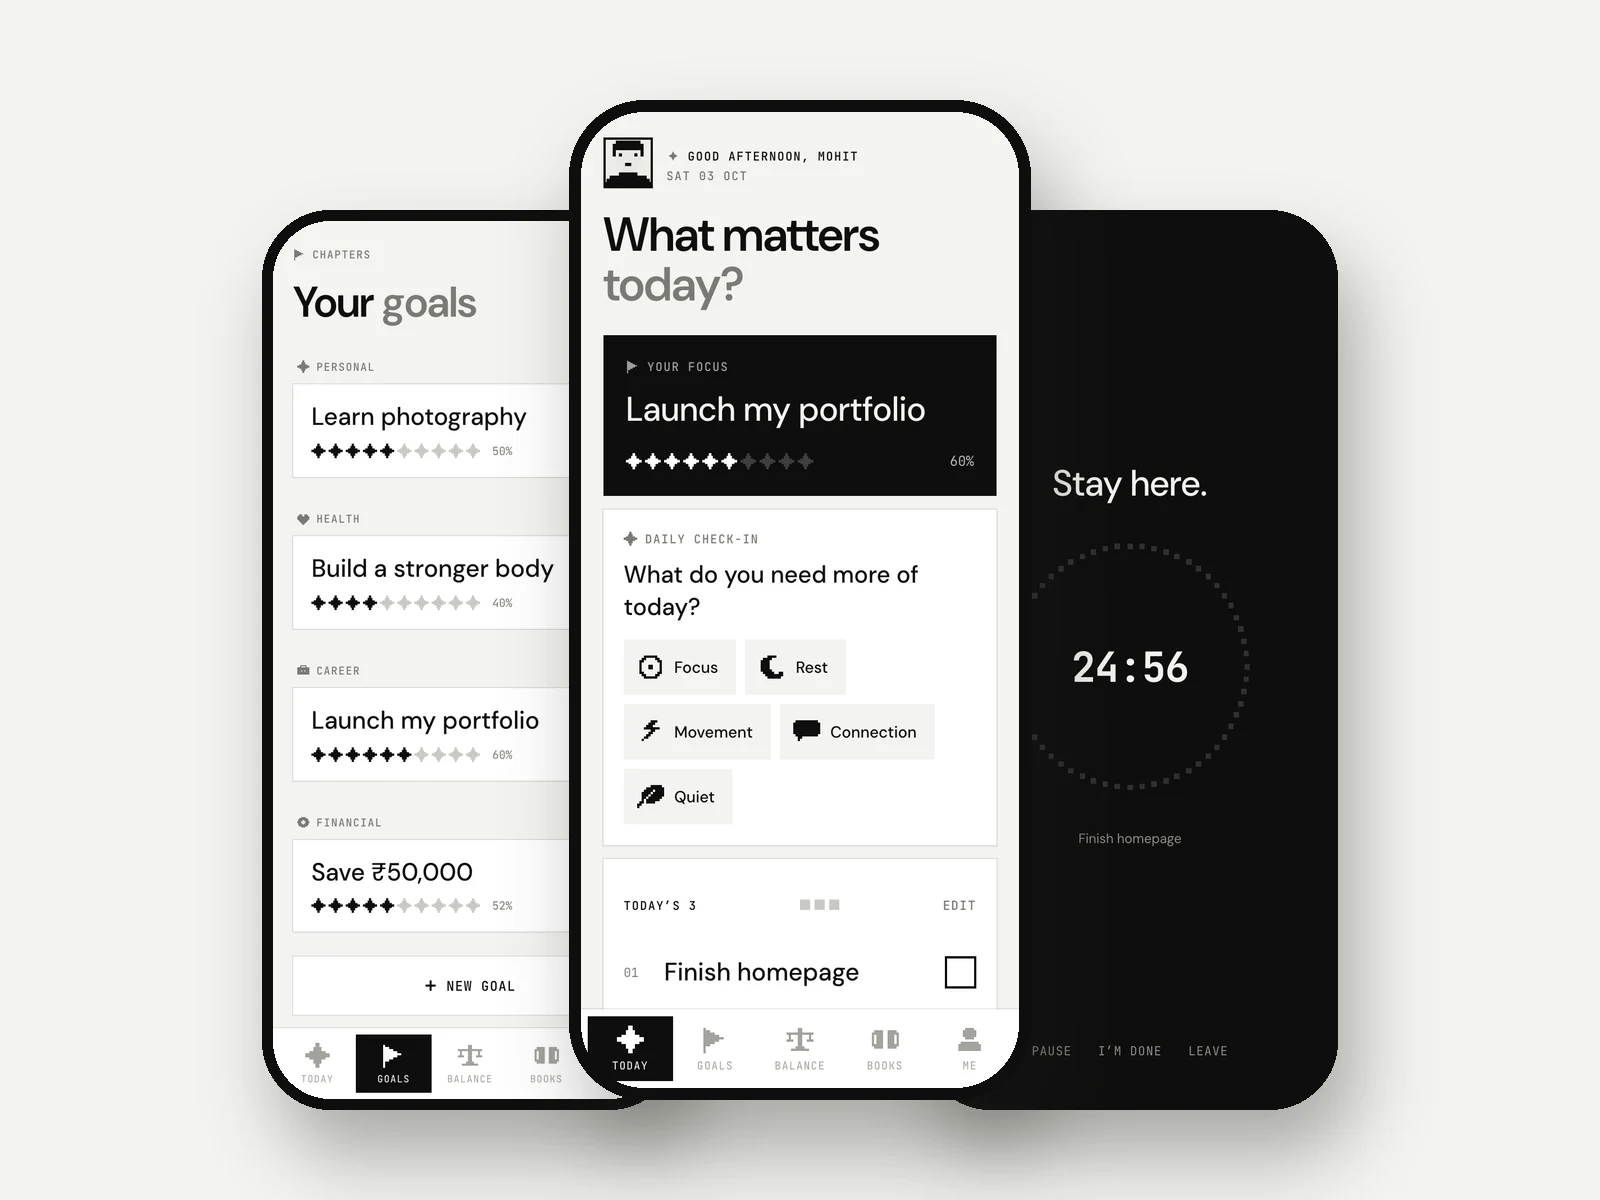
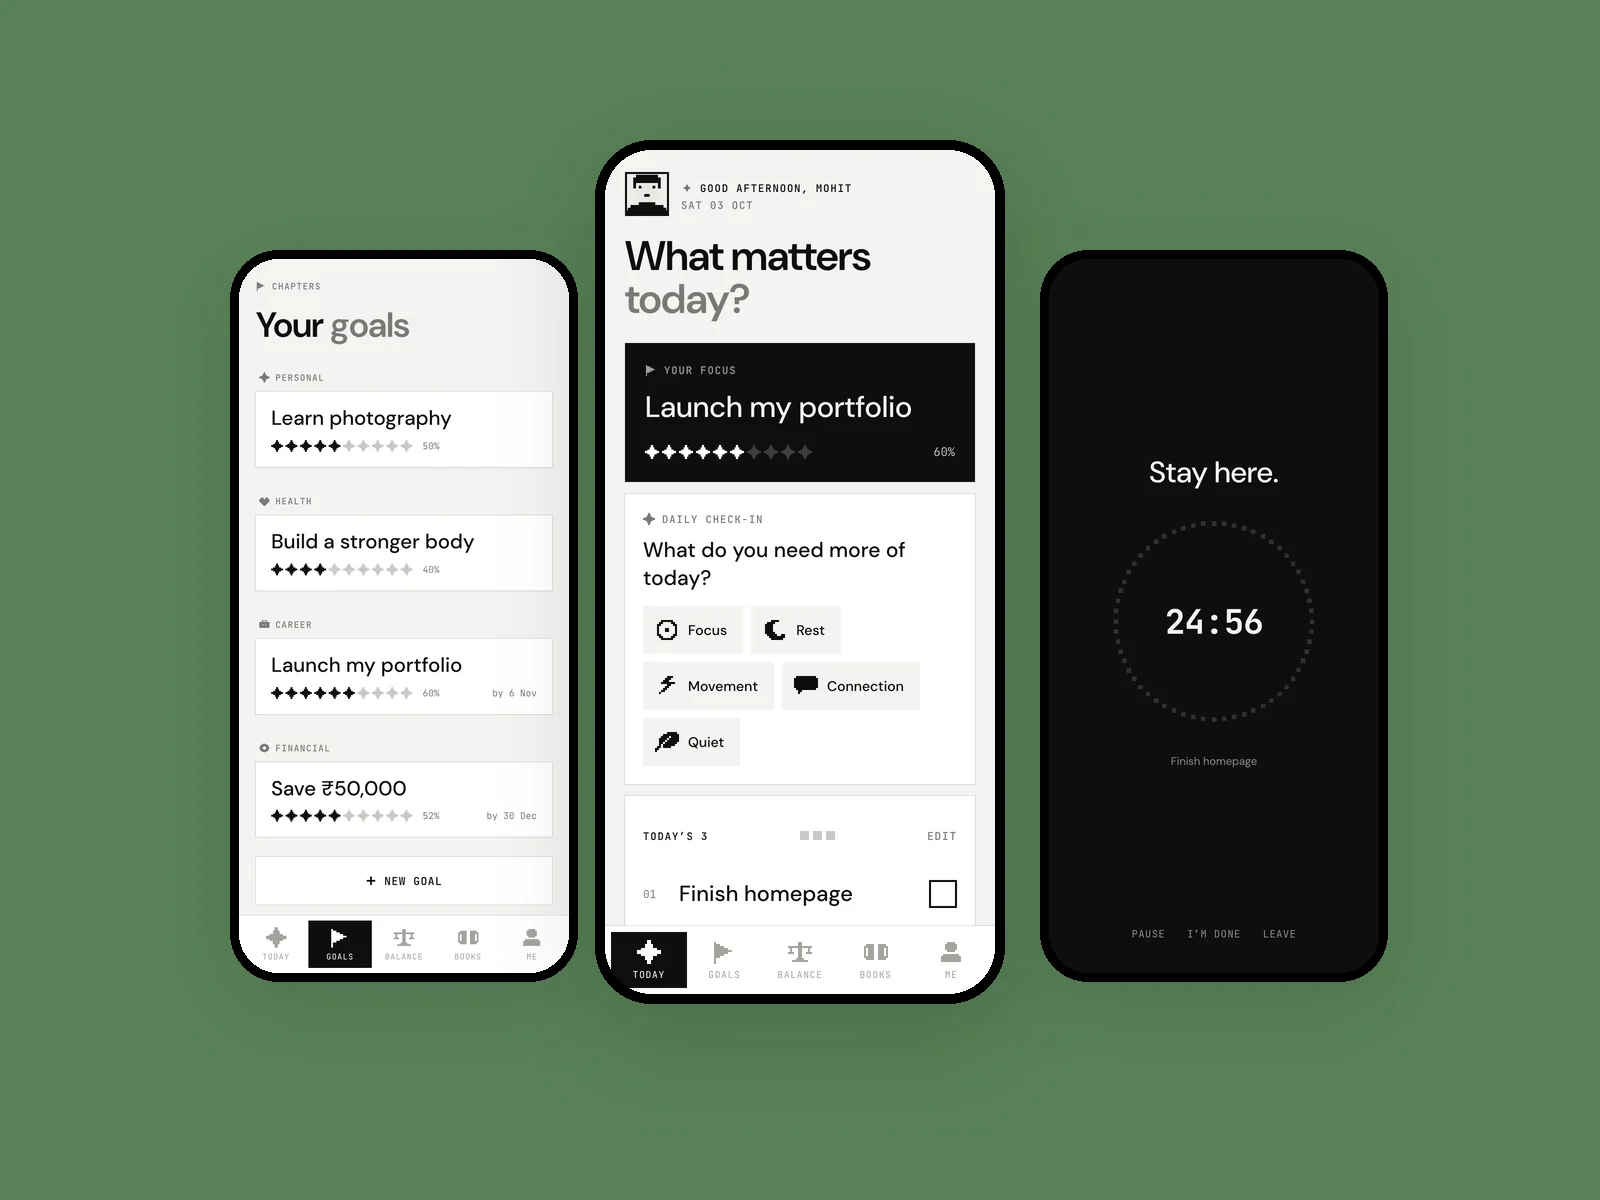
Brands we've built: MAKVO and Whistle, brand-colour hovers; new Falance and RAWSET covers

diff --git a/src/components/home/TrustedBy.tsx b/src/components/home/TrustedBy.tsx
@@ -10,7 +10,7 @@ const hrefFor = (slug: string) => {
 import { Reveal } from '../ui/Reveal';
 import { SquareBullet } from '../ui/SquareBullet';
 
-/** Every logo is drawn in one flat colour (its shape used as a mask), so mixed brands sit together calmly. */
+/** Every logo sits inside a fixed padding and scales down to fit its tile. It is drawn in one flat colour (its shape used as a mask), so mixed brands sit together calmly; on hover it takes its own brand colour. */
 function Logo({ client }: { client: ClientLogo }) {
   const mask = client.logo
     ? {
@@ -25,21 +25,21 @@ function Logo({ client }: { client: ClientLogo }) {
       }
     : undefined;
   return (
-    <span className="flex items-center gap-2.5 text-foreground transition-colors duration-300 group-hover:text-accent">
+    <span className="flex min-w-0 max-w-full items-center gap-2.5 text-foreground transition-colors duration-300 group-hover:text-[var(--brand)]">
       {mask && (
         <span
           aria-hidden="true"
-          className="block h-7 bg-current md:h-8"
+          className="block h-6 min-w-0 max-w-full shrink bg-current xl:h-8"
           style={{ ...mask, aspectRatio: String(client.ratio ?? 1) }}
         />
       )}
-      {client.wordmark && <span className="text-2xl font-semibold tracking-[-0.04em] md:text-[1.7rem]">{client.wordmark}</span>}
+      {client.wordmark && <span className="text-xl font-semibold tracking-[-0.04em] xl:text-[1.7rem]">{client.wordmark}</span>}
       <span className="sr-only">{client.name}</span>
     </span>
   );
 }
 
-const cell = 'group relative flex h-24 items-center justify-center border-b border-r border-border px-6 md:h-28';
+const cell = 'group relative flex h-24 items-center justify-center border-b border-r border-border px-5 transition-colors duration-300 hover:bg-[var(--brand-bg)] md:h-28';
 
 /**
  * "Brands we've built": the studio's own brands, linked to their case studies.
@@ -52,10 +52,14 @@ export function TrustedBy() {
         <p className="text-meta col-span-12 flex items-center gap-2 self-start text-muted md:col-span-3 md:pt-4">
           <SquareBullet /> Brands we’ve built
         </p>
-        <Reveal className="col-span-12 md:col-span-9 lg:col-span-6">
-          <ul className="grid border-l border-t border-border" style={{ gridTemplateColumns: `repeat(${clients.length}, minmax(0, 1fr))` }}>
+        <Reveal className="col-span-12 md:col-span-9">
+          {/* Two per row on phones and tablets, all in one row from laptops up */}
+          <ul
+            className="grid grid-cols-2 border-l border-t border-border lg:grid-cols-[repeat(var(--n),minmax(0,1fr))]"
+            style={{ '--n': clients.length } as React.CSSProperties}
+          >
             {clients.map((c) => (
-              <li key={c.name}>
+              <li key={c.name} style={{ '--brand': c.color ?? 'var(--accent)', '--brand-bg': c.hoverBg ?? 'transparent' } as React.CSSProperties}>
                 {c.slug ? (
                   <Link to={hrefFor(c.slug)} className={cell} data-cursor="View" aria-label={`${c.name} case study`}>
                     <Logo client={c} />

diff --git a/src/data/projects.ts b/src/data/projects.ts
@@ -34,17 +34,8 @@ const allProjects: Project[] = [
     description:
       'RAWSET is a limited-run streetwear label: made raw, worn different. We are building the whole thing ourselves — the pixel identity, the poster campaign and the Drop 01 storefront — so the brand gets tested in the store as it is designed, not after.',
     tone: { bg: '#141413', ink: '#F2F1EE', accent: '#E4FF3A' },
-    thumbnail: { src: '/assets/projects/rawset/site-desktop-home.webp', alt: 'RAWSET website — Winter Arc homepage', kind: 'desktop' },
-    heroImage: { src: '/assets/projects/rawset/site-desktop-drop-hero.webp', alt: 'RAWSET website — Drop 01 mosaic hero', kind: 'hero' },
-    // Project page cover: the wordmark, small and centred on Rawset yellow
-    pageCover: {
-      src: '/assets/projects/rawset/logo-wordmark-black.webp',
-      alt: 'RAWSET wordmark on Rawset yellow',
-      background: '#FEEF24',
-      size: 'clamp(9rem, 18%, 17rem)',
-    },
-    // Homepage card: the star monogram in its construction geometry, in Rawset yellow
-    cover: { type: 'logo-construction', src: '/assets/projects/rawset/logo-monogram.webp', alt: 'RAWSET star monogram', color: '#FEEF24' },
+    thumbnail: { src: '/assets/projects/rawset/cover.webp', alt: 'RAWSET website on desktop and phone, on Rawset yellow', kind: 'desktop' },
+    heroImage: { src: '/assets/projects/rawset/hero.webp', alt: 'RAWSET website — Winter Arc homepage, Drop 01 hero and mobile', kind: 'hero' },
     gallery: [
       // Website — desktop
       {
@@ -101,7 +92,6 @@ const allProjects: Project[] = [
           { src: '/assets/projects/rawset/poster-never-played.webp', alt: 'Never played the same game', kind: 'poster' },
           { src: '/assets/projects/rawset/poster-you-see-it.webp', alt: 'You see it, we live it', kind: 'poster' },
           { src: '/assets/projects/rawset/poster-made-for.webp', alt: 'Made for those who know', kind: 'poster' },
-          { src: '/assets/projects/rawset/poster-street-knew.webp', alt: 'The street already knew', kind: 'poster' },
           { src: '/assets/projects/rawset/poster-2026.webp', alt: '2026 — this isn’t for everyone', kind: 'poster' },
         ],
       },
@@ -238,7 +228,7 @@ const allProjects: Project[] = [
       'Falance helps people stop juggling everything and start with one thing. It brings together a daily focus screen, goals broken into small steps, a gentle look at life balance and a small library of books — five tabs, 31 screens and states, 22 custom pixel icons and six pixel avatars, built as a working prototype with real subscriptions.',
     tone: { bg: '#F3F3F0', ink: '#0E0E0E', accent: '#588157' },
     thumbnail: { src: '/assets/projects/falance/cover.webp', alt: 'Falance — Goals, Today and Focus mode screens', kind: 'mobile' },
-    heroImage: { src: '/assets/projects/falance/hero.webp', alt: 'Falance — five screens from onboarding to plans', kind: 'hero' },
+    heroImage: { src: '/assets/projects/falance/hero.webp', alt: 'Falance — onboarding, Goals, Today, Focus and Plans screens', kind: 'hero' },
     gallery: [
       {
         layout: 'phones',

diff --git a/src/data/clients.ts b/src/data/clients.ts
@@ -12,6 +12,10 @@ export interface ClientLogo {
   wordmark?: string;
   /** Links the logo to its case study */
   slug?: string;
+  /** The brand's own colour — the logo turns this colour on hover */
+  color?: string;
+  /** Tile colour on hover, for brands whose colour needs its own ground (e.g. RAWSET's yellow on black) */
+  hoverBg?: string;
 }
 
 /**
@@ -19,8 +23,10 @@ export interface ClientLogo {
  * Add a logo as a transparent PNG / WebP / SVG in /public/assets/clients/.
  */
 export const clients: ClientLogo[] = [
-  { name: 'RAWSET', logo: '/assets/projects/rawset/logo-wordmark-black.webp', ratio: 1569 / 465, slug: 'rawset' },
-  { name: 'Falance', logo: '/assets/projects/falance/mark.svg', ratio: 126 / 165, wordmark: 'Falance', slug: 'falance' },
+  { name: 'RAWSET', logo: '/assets/projects/rawset/logo-wordmark-black.webp', ratio: 1569 / 465, slug: 'rawset', color: '#FEEF24', hoverBg: '#000000' },
+  { name: 'Falance', logo: '/assets/projects/falance/mark.svg', ratio: 126 / 165, wordmark: 'Falance', slug: 'falance', color: '#588157' },
+  { name: 'MAKVO', logo: '/assets/clients/makvo.png', ratio: 800 / 154, slug: 'makvo', color: '#001F3F', hoverBg: '#DBE64C' },
+  { name: 'Whistle', logo: '/assets/clients/whistle.png', ratio: 781 / 216, slug: 'whistle', color: '#4A19E4' },
 ];
 
 
